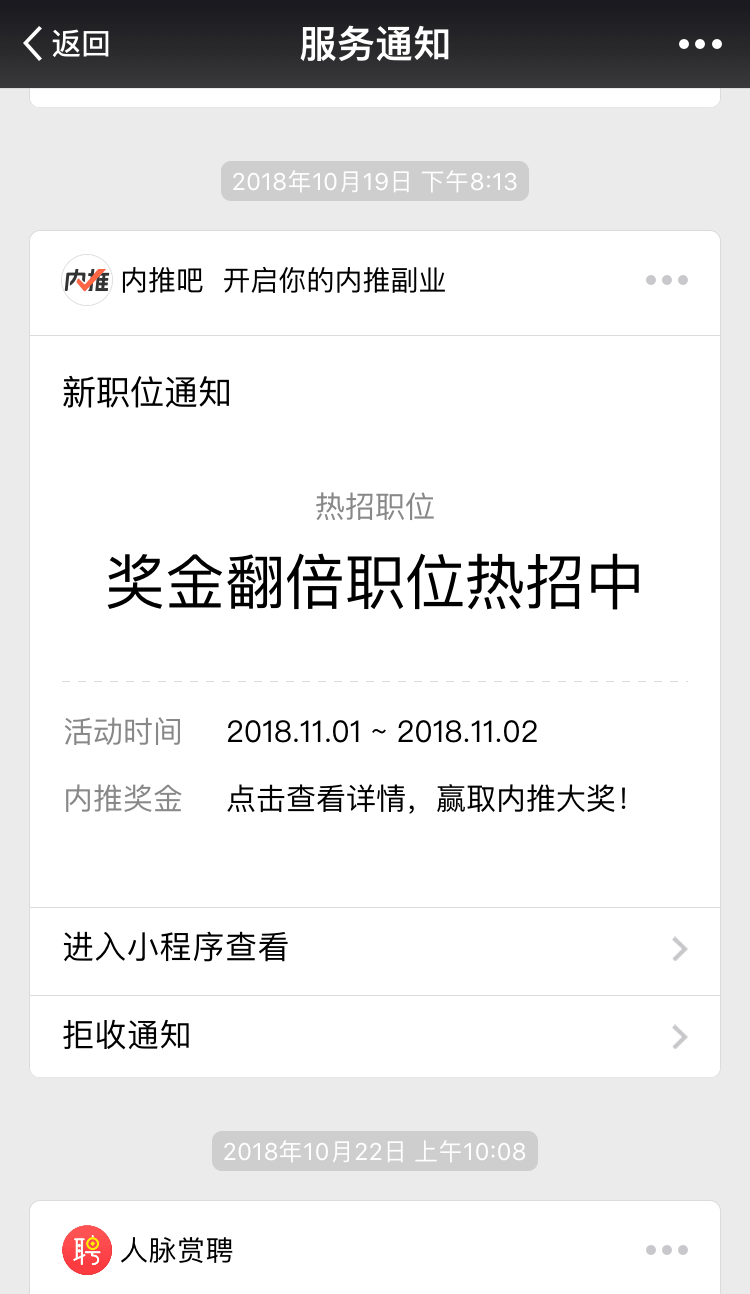
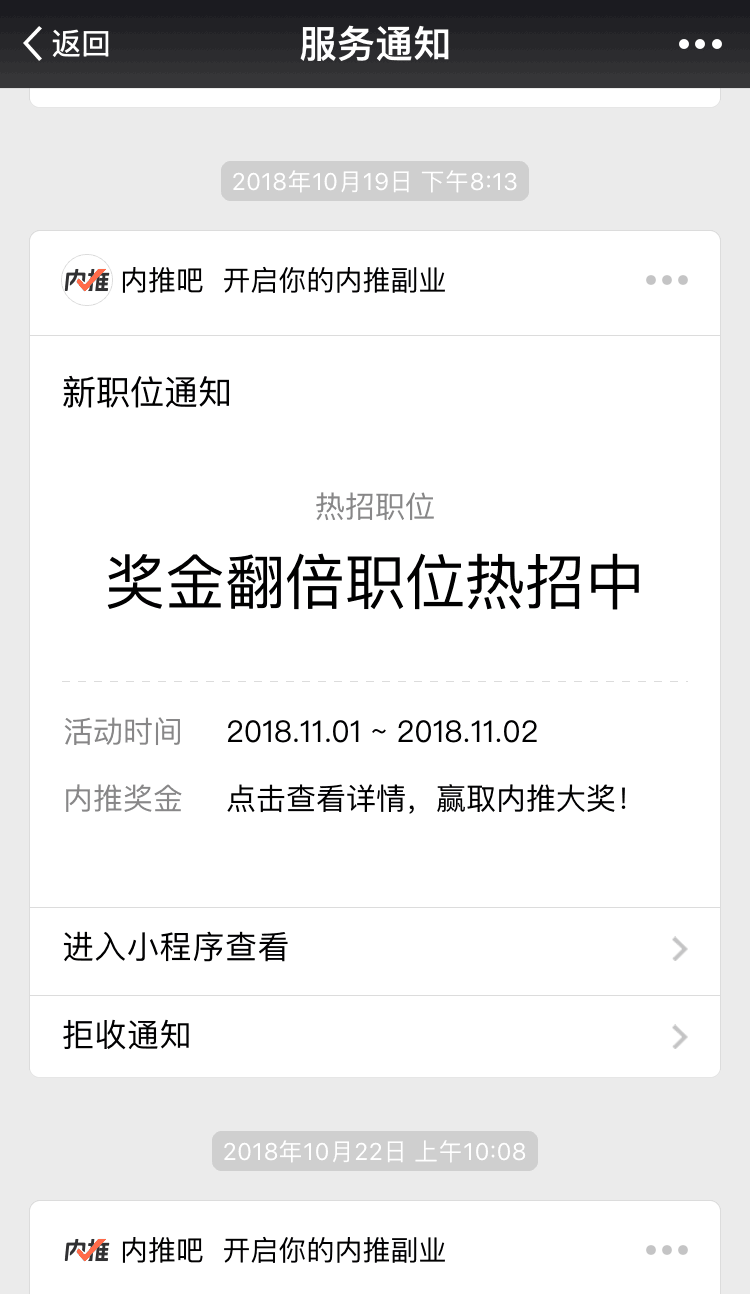
改微信通知图片;添加机器人图案

Changed region(s): [[0.0613, 0.9274, 0.5827, 0.9892]]

diff --git a/step5.html b/step5.html
@@ -13,6 +13,7 @@
 <body>
     <div class="container">
         <img src="./assets/demo-候选人端-职位详情-原.png" alt="新职位通知" usemap="#Map" width="100%">
+        <img src="./assets/float-button.png" alt="" class="float-button">
     </div>
         <map name="Map" id="Map">
         <area alt="后退" title="" href="./step4.html" shape="poly" coords="0,0,162,0,157,167,3,167" />

diff --git a/style.css b/style.css
@@ -33,3 +33,10 @@ body {
 .tab-wrapper img{
     width: 100%;
 }
+
+.float-button{
+    position: fixed;
+    width:16.3vw;
+    bottom:14vw;
+    right:8vw;
+}
